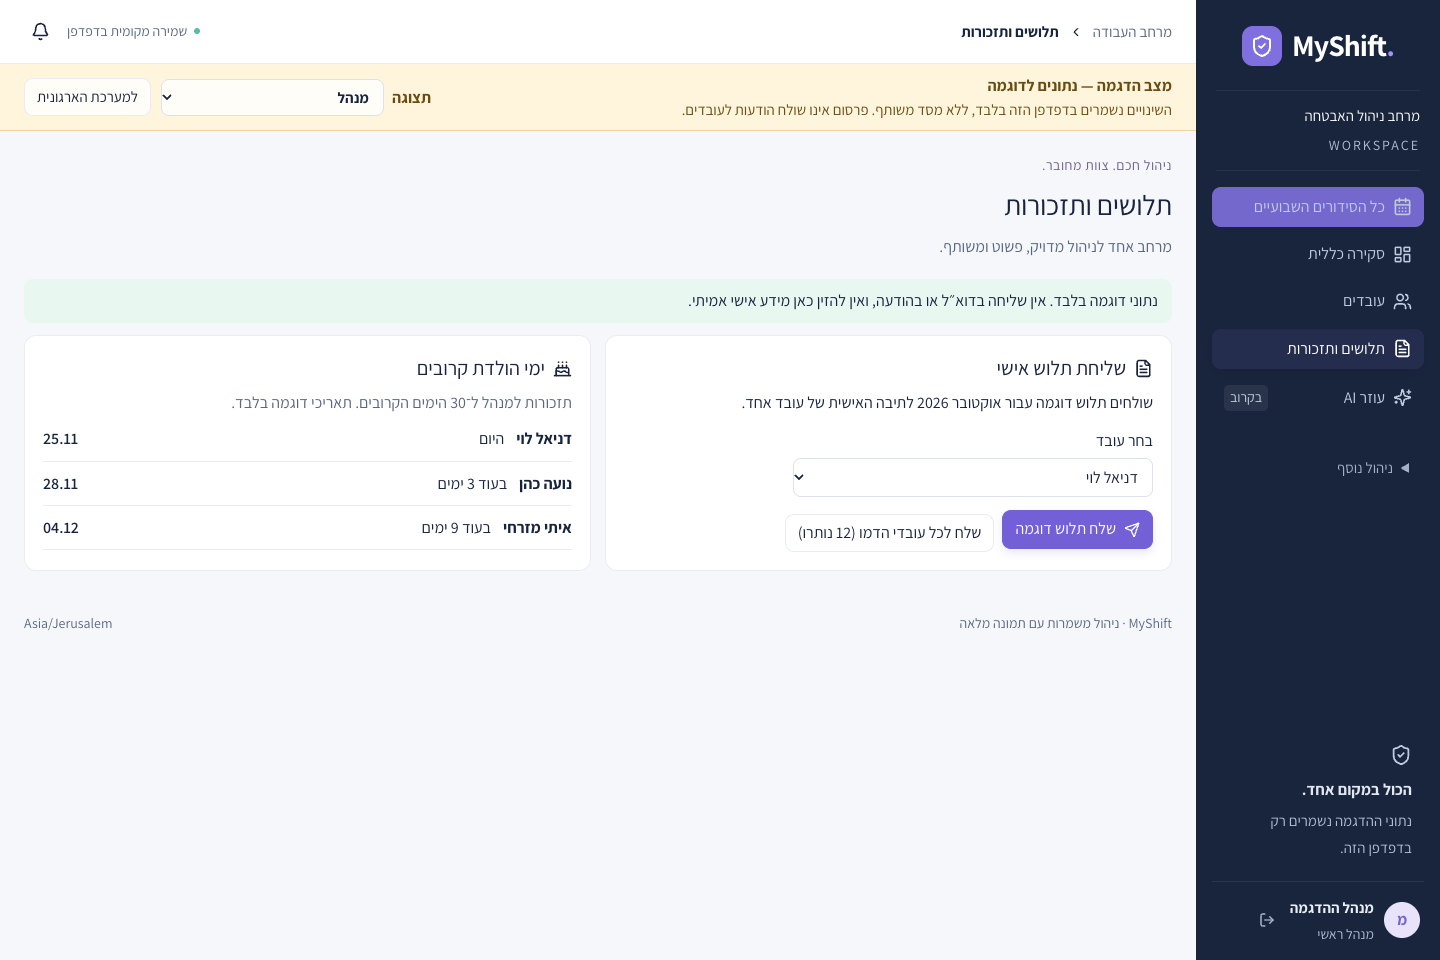
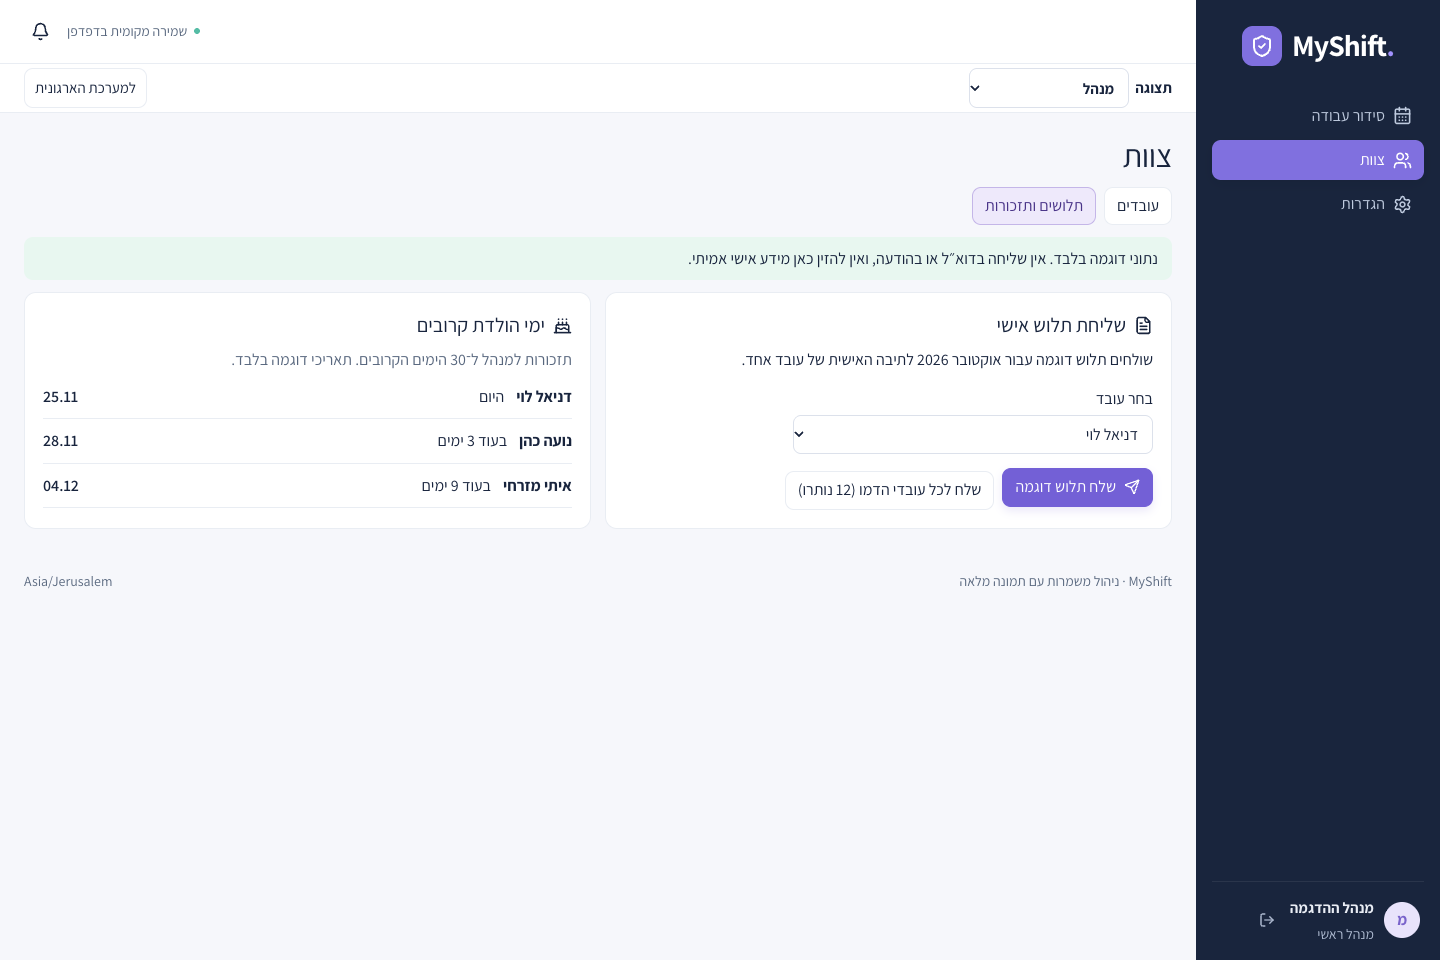
Document the unified scheduling workflow

diff --git a/README.md b/README.md
@@ -6,7 +6,7 @@
 
 ![הסידור השבועי הארגוני ב־MyShift, עם משמרות לפי יום ומחלקה](docs/screenshots/roster.png)
 
-*מסך כל הסידורים השבועיים מרכז את השיבוצים לפי מחלקה, עם בחירת שבוע והדפסה או שמירה כ־PDF.*
+*סידור עבודה הוא המסך הראשי למנהל. הוא מציג את השבוע לפי מחלקה ומאפשר לפתוח משמרת בטיוטה לעריכה ישירות מהלוח.*
 
 דף הבית מציג 56 משמרות דוגמה לשבוע מלא באחמ״שים, סיירים, קבלה וחניונים. במסך רחב רואים את השבוע במבט אחד, ובמסך צר בוחרים יום ורואים את כל האזורים יחד.
 
@@ -18,13 +18,15 @@
 
 | מסך | שימוש |
 | --- | --- |
-| **כל הסידורים השבועיים** | להשוות בין סידורי המחלקות, לפתוח סידור מחלקתי ולהדפיס את התצוגה השבועית. |
-| **סידור מחלקתי** | ליצור טיוטה, להוסיף ולשבץ משמרות, למלא משמרות פנויות לפי זמינות והכשרות ולפרסם. אפשר גם להעתיק שבוע או לשחזר סידור מסל המחזור. |
-| **סקירה כללית** | לאתר פערי איוש, משמרות שדורשות בדיקה וסידורים שממתינים לפרסום. |
-| **עובדים** | לנהל שיוך למחלקות, הכשרות וזמינות קבועה, ולדווח על חופשות והיעדרויות. |
-| **תצוגת עובד** | לראות שיבוצים אישיים שפורסמו ולנהל דיווחי היעדרות בהתאם להרשאות. |
+| **סידור עבודה** | לראות את השיבוצים בכל המחלקות ולסנן לפנויות, לשיבוצים לבדיקה או לטיוטות שממתינות לפרסום. בטלפון בוחרים יום, ואפשר להתמקד במחלקה באמצעות חיפוש. |
+| **סידור מחלקה** | לעבור בין מחלקות, ליצור ולהשלים טיוטה, לשבץ ולפרסם. ״עוד״ כולל פעולות שבוע, קבצים וסל מחזור. ״חזרה לכל המחלקות״ שומרת את היום, הסינון והמיקום בלוח. |
+| **צוות** | לנהל עובדים, שיוכים והכשרות, ולדווח זמינות והיעדרויות בהתאם להרשאות. תלושים ותזכורות מופיעים בצוות בדמו. |
+| **הגדרות** | להגדיר מחלקות, אתרים, שעות ודרישות איוש, ולראות את יומן הפעילות. |
+| **המשמרות שלי** | לראות את המשמרת הקרובה ואת השיבוצים האישיים שפורסמו. דיווחי זמינות והיעדרות זמינים ב״הפרופיל שלי״. |
 
-השיבוץ האוטומטי מבוסס על כללים ובודק זמינות, הכשרות וחפיפות. ניתן לייבא משמרות מ־CSV או XLSX עם תצוגה מקדימה, ולייצא את הלוח השבועי ל־Excel. עוזר ה־AI מופיע בממשק כ״בקרוב״ ומושבת.
+לשינוי עובד, פותחים משמרת בטיוטה, בוחרים עובד ושומרים. לעריכת תאריך, שעות, אתר ותפקיד פותחים את ״פרטי משמרת״ באותו חלון. לאחר השמירה אפשר לבטל את הפעולה האחרונה. [צילום עורך המשמרת בטלפון](docs/screenshots/shift-editor-mobile.png)
+
+השיבוץ האוטומטי בודק זמינות, הכשרות וחפיפות. אפשר לייבא CSV או XLSX עם תצוגה מקדימה, לייצא ל־Excel ולהדפיס את הלוח השבועי המלא ל־PDF.
 
 ## הרצה מקומית
 
